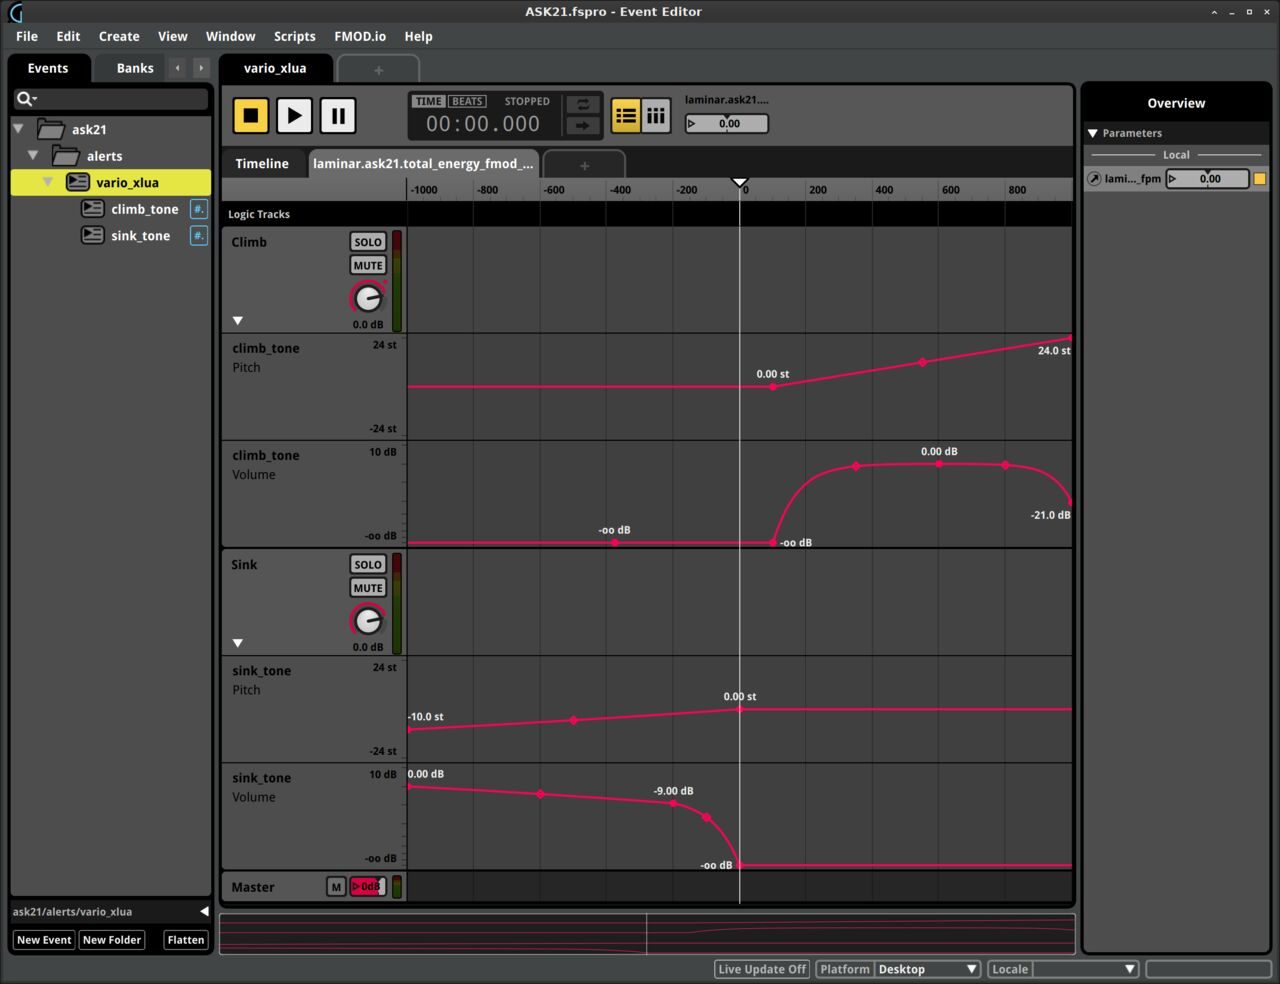
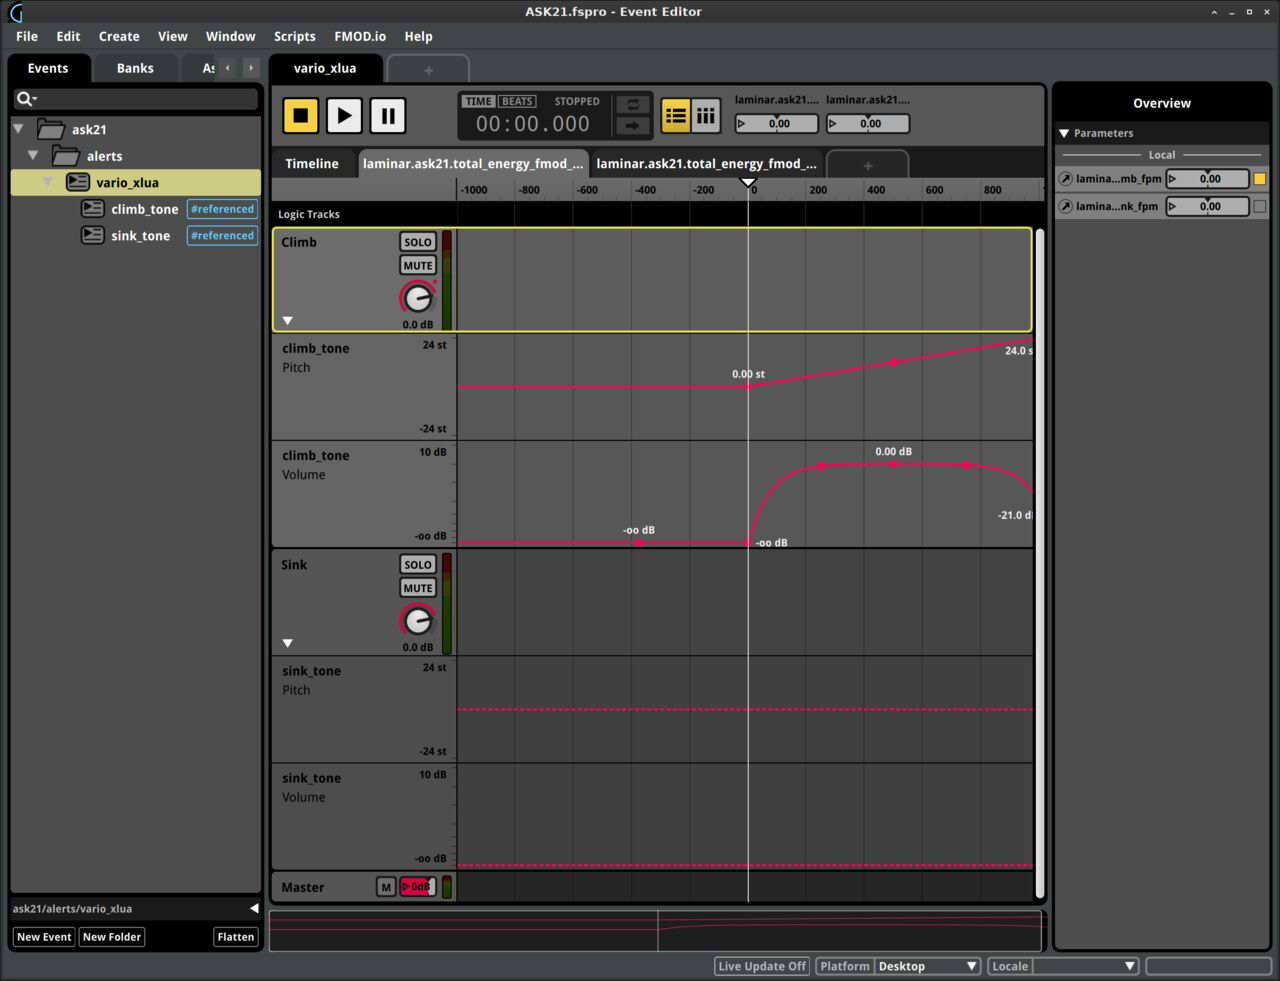
FMOD: Split climb/sink datarefs

diff --git a/fmod/source/README.md b/fmod/source/README.md
@@ -17,7 +17,7 @@ to custom resources/settings):
 * Make sure to assign your custom _Event(s)_ to that `Custom` _Bank_
   (in the FMOD "_Banks_" tab or right-clicking on the _Event_ -> "_Assign to Bank_")
 
-* When using (custom) _Parameter(s)_ - e.g. `laminar.ask21.total_energy_fmod_fpm` - make sure to configure them as:
+* When using (custom) _Parameter(s)_ - e.g. `laminar.ask21.total_energy_fmod_climb_fpm` - make sure to configure them as:
   - _Name_: replace slashes ("/")  with dots (".") in the **Dataref** name
     (do NOT use _Folders_ to organize those _Parameters_)
   - _Type_: "_User: Continuous_"
@@ -37,8 +37,9 @@ to custom resources/settings):
     e.g. `{3a77f22a-6669-4a4d-ba89-87a0a90cd583} bank:/Custom`
   - the custom `ask21/alerts/vario_xlua` _Event_ GUID;
     e.g. `{2d01cfe5-5d51-4641-a30d-a7cfaa56de16} event:/ask21/alerts/vario_xlua`
-  - the custom `laminar.ask21.total_energy_fmod_fpm` _Parameter_ GUID;
-    e.g. `{56383656-c1d9-44a8-9b3f-48d9f0268ad0} parameter:/laminar.ask21.total_energy_fmod_fpm`
+  - the custom `laminar.ask21.total_energy_fmod_*_fpm` _Parameters_ GUIDs;
+    e.g. `{0106df92-f361-4559-8505-a8d029ae8c6e} parameter:/laminar.ask21.total_energy_fmod_climb_fpm`
+    and  `{62a9298b-ec4b-463d-b8c5-59d8d8211a7b} parameter:/laminar.ask21.total_energy_fmod_sink_fpm`
 
 * Edit the aircraft existing "**fmod/ASK21.snd**" file and:
   - ___add___ the `Custom` _Bank_ file requirement: `REQUIRES_BANK Custom.bank`
@@ -48,7 +49,13 @@ to custom resources/settings):
   e.g. in "**plugins/xlua/scripts/ask21_variometer/`ask21_variometer.lua`**":
 
 ```
-total_energy_fmod_fpm = create_dataref("laminar/ask21/total_energy_fmod_fpm","number")
+// Create datarefs
+total_energy_fmod_climb_fpm = create_dataref("laminar/ask21/total_energy_fmod_climb_fpm","number")
+total_energy_fmod_sink_fpm = create_dataref("laminar/ask21/total_energy_fmod_sink_fpm","number")
+
+// Update datarefs
+total_energy_fmod_climb_fpm = ...
+total_energy_fmod_sink_fpm = ...
 ```
 
 * When making changes and reloading the aircraft in X-Plane, make sure to **Menu > Developer >
